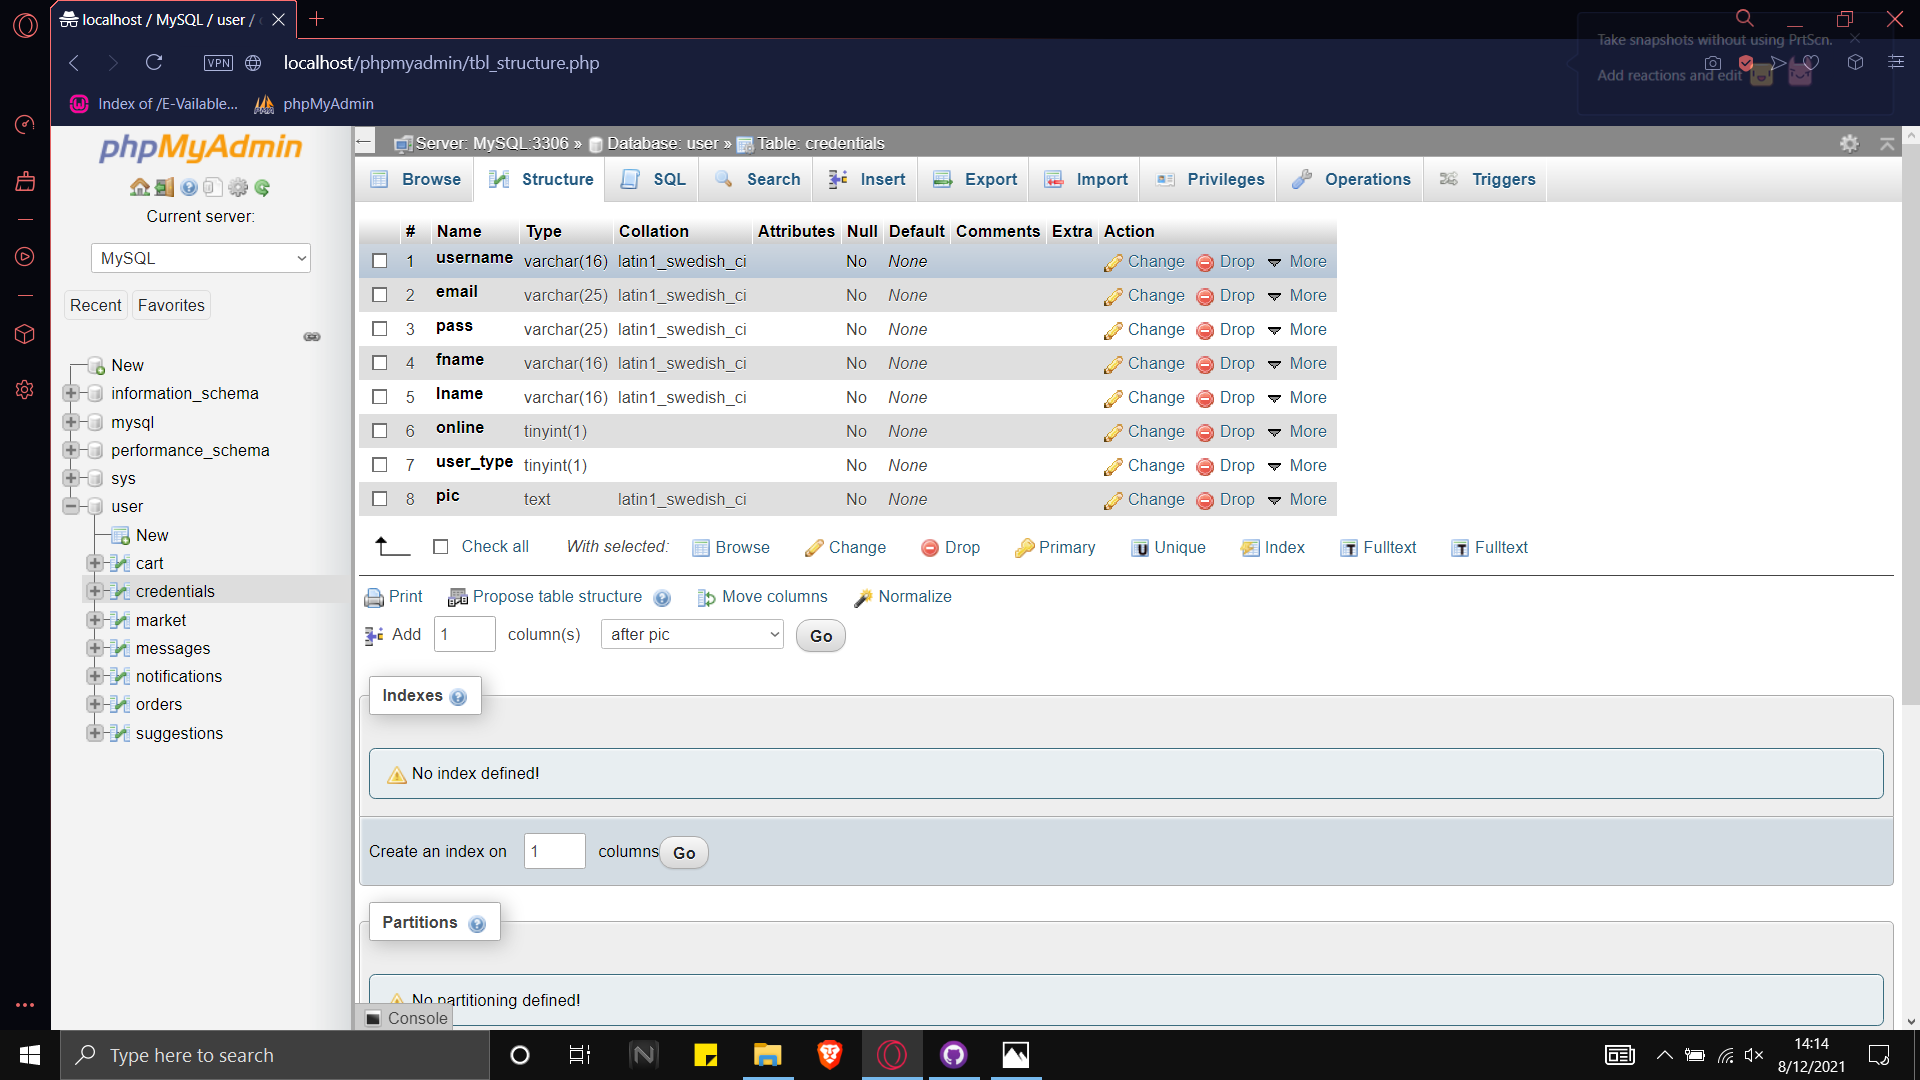
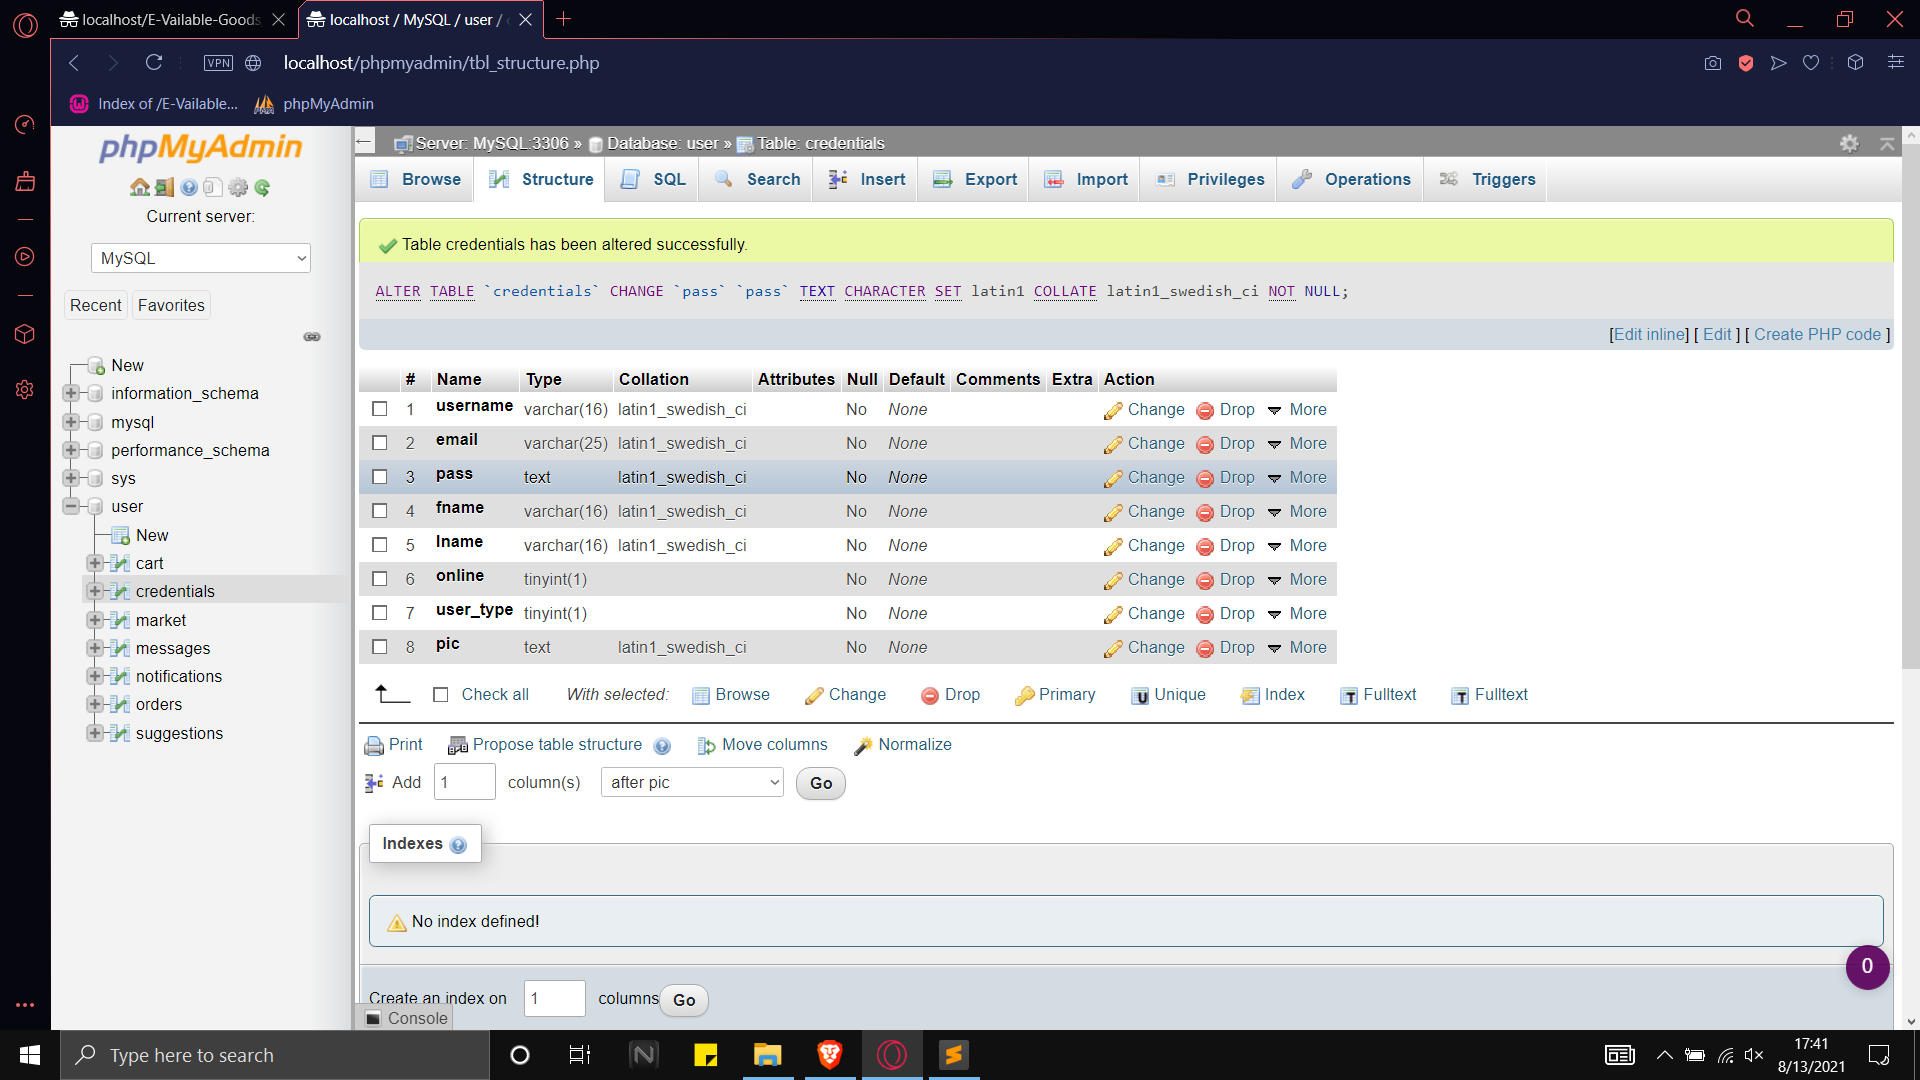
Bug Fix, Security Improvement, Design, jQuery Update

diff --git a/TalkJS.js b/TalkJS.js
@@ -27,7 +27,9 @@ $(document).ready(function(){
 			url: "GetMsgData.php",
 			cache: false,
 			success: function(html){
-				$("#chat").html(html);
+				if($("#chat").html().replace(/\s/g, '') != html.replace(/\s/g, '')){
+					$("#chat").html(html);
+				}
 				var newS = $("#chat")[0].scrollHeight - 20;
 				if(newS > oldS){
 					$("#chat").animate({scrollTop: newS}, "normal");
@@ -43,7 +45,9 @@ $(document).ready(function(){
 			url: "GetChatsData.php",
 			cache: false,
 			success: function(html){
-				$("#contacts").html(html);
+				if($("#contacts").html().replace(/\s/g, '') != html.replace(/\s/g, '')){
+					$("#contacts").html(html);
+				}
 			}
 		});
 		return false;
@@ -65,7 +69,9 @@ $(document).ready(function(){
 			url: "GetOnlineDataInTalk.php",
 			cache: false,
 			success: function(html){
-				$("#active").html(html);
+				if($("#active").html().replace(/\s/g, '') != html.replace(/\s/g, '')){
+					$("#active").html(html);
+				}
 			}
 		});
 	}

diff --git a/TalkCSS.css b/TalkCSS.css
@@ -288,6 +288,7 @@ h4{
 	line-height: 20px;
 	border-radius: 15px;
 	background-color: #ccc;
+	word-wrap: break-word;
 }
 
 .from{	
@@ -301,6 +302,7 @@ h4{
 	font-size: 14px;
 	line-height: 20px;
 	border-radius: 15px;
+	word-wrap: break-word;
 }
 
 #send{

diff --git a/SuggestJS.js b/SuggestJS.js
@@ -7,5 +7,5 @@ $(document).ready(function(){
 			$('#post_sugg')[0].disabled = false;
 		}
 	}
-	setInterval(change_but, 200);
+	setInterval(change_but, 10);
 });

diff --git a/SignUp.php b/SignUp.php
@@ -46,7 +46,11 @@
 		} 
 		else{
 		    $uname = test_input($_POST["uname"]);
-		    if(!preg_match('/^[a-zA-Z0-9]{5,}$/', $uname)){
+		    if(strlen($uname) > 16){
+		    	$unameErr = "Nice try but try again";
+      			$error = True;
+		    }
+		    else if(!preg_match('/^[a-zA-Z0-9]{5,}$/', $uname)){
       			$unameErr = "White space is not allowed";
       			$error = True;
     		}
@@ -57,7 +61,11 @@
 		} 
 		else{ 
 		   	$email = test_input($_POST["email"]);
-		    if(!filter_var($email, FILTER_VALIDATE_EMAIL)){
+		   	if(strlen($email) > 25){
+		    	$emailErr = "Nice try but try again";
+      			$error = True;
+		    }
+		    else if(!filter_var($email, FILTER_VALIDATE_EMAIL)){
       			$emailErr = "Invalid email format";
       			$error = True;
     		}
@@ -67,7 +75,14 @@
 		    $error = True;
 		} 
 		else{
-		    $pword = test_input($_POST["pword"]);
+			$pword = test_input($_POST["pword"]);
+			if(strlen($pword) > 25){
+		    	$pwordErr = "Nice try but try again";
+      			$error = True;
+		    }
+		    else{
+		    	$pword = md5(test_input($_POST["pword"]));
+		    }
 		}
 		if(empty($_POST["fname"])){
 			$fnameErr = "First Name is required";
@@ -75,6 +90,10 @@
 		} 
 		else{
 		    $fname = test_input($_POST["fname"]);
+		    if(strlen($fname) > 16){
+		    	$fnameErr = "Nice try but try again";
+      			$error = True;
+		    }
 		}
 		if(empty($_POST["lname"])){
 		    $lnameErr = "Last Name is required";
@@ -82,6 +101,10 @@
 		} 
 		else{
 		    $lname = test_input($_POST["lname"]);
+		    if(strlen($lname) > 16){
+		    	$lnameErr = "Nice try but try again";
+      			$error = True;
+		    }
 		}
 		if(!isset($_POST["user_type"])){
 			$adminErr = $custErr = "Please select one";
@@ -166,11 +189,11 @@
 
 	<div class = "login"> 
 		<form method = "post" action = "<?php echo htmlspecialchars($_SERVER["PHP_SELF"]);?>">
-			Username: <br> <input type = "text" name = "uname" class = "field" value = "<?php echo $uname?>" id="uname"> <span class = "error" id="unameE">* <?php echo $unameErr;?></span> <br>
-			E-Mail: <br>  <input type = "text" name = "email" class = "field" value = "<?php echo $email?>"id="email"> <span class = "error">* <?php echo $emailErr;?></span> <br>
-			Password: <br> <input type = "password" name = "pword" class = "field" id="pword"> <span class = "error">* <?php echo $pwordErr;?></span> <br>
-			First Name: <br> <input type = "text" name = "fname" class = "field" value = "<?php echo $fname?>" id="fname"> <span class = "error">* <?php echo $fnameErr;?></span> <br>
-			Last Name: <br> <input type = "text" name = "lname" class = "field" value = "<?php echo $lname?>" id="lname"> <span class = "error">* <?php echo $lnameErr;?></span> <br>
+			Username: <br> <input type = "text" placeholder="Must not exceed 16 characters" name = "uname" class = "field" value = "<?php echo $uname?>" id="uname" maxlength="16"> <span class = "error" id="unameE">* <?php echo $unameErr;?></span> <br>
+			E-Mail: <br>  <input type = "text" placeholder="Must not exceed 25 characters" name = "email" class = "field" value = "<?php echo $email?>"id="email" maxlength="25"> <span class = "error">* <?php echo $emailErr;?></span> <br>
+			Password: <br> <input type = "password" placeholder="Must not exceed 25 characters" name = "pword" class = "field" id="pword" maxlength="25"> <span class = "error">* <?php echo $pwordErr;?></span> <br>
+			First Name: <br> <input type = "text" placeholder="Must not exceed 16 characters" name = "fname" class = "field" value = "<?php echo $fname?>" id="fname" maxlength="16"> <span class = "error">* <?php echo $fnameErr;?></span> <br>
+			Last Name: <br> <input type = "text" placeholder="Must not exceed 16 characters" name = "lname" class = "field" value = "<?php echo $lname?>" id="lname" maxlength="16"> <span class = "error">* <?php echo $lnameErr;?></span> <br>
 			<input type = "radio" id = "admin" name = "user_type"  value = "admin" <?php if($admin != ""){echo "checked";}?>> Market Admin <span class = "error"> * <?php echo $adminErr; ?> </span> <br>
 			<input type = "radio" id = "cust" name = "user_type" value = "cust" <?php if($cust != ""){echo "checked";}?>> Customer <span class = "error"> * <?php echo $custErr; ?> </span> 
 			<br>

diff --git a/Profile.php b/Profile.php
@@ -45,21 +45,39 @@
 		    $error = True;
 		  } 
 		  else{
-		    $opw = test_input($_POST["opw"]);
+		  	if(strlen($_POST["opw"]) > 25){
+		  		$opwErr = "Nice try but try again";
+		  		$error = True;
+		  	}
+		  	else{
+		    	$opw = test_input($_POST["opw"]);
+		    }
 		  }
 		  if(empty($_POST["npw"])){
 		    $npwErr = "This field is required";
 		    $error = True;
 		  } 
 		  else{
-		    $npw = test_input($_POST["npw"]);
+		  	if(strlen($_POST["npw"]) > 25){
+		  		$npwErr = "Nice try but try again";
+		  		$error = True;
+		  	}
+		  	else{
+		    	$npw = test_input($_POST["npw"]);
+		    }
 		  }
 		  if(empty($_POST["rnpw"])) {
 		    $rnpwErr = "This field is required";
 		    $error = True;
 		  } 
 		  else{
-		    $rnpw = test_input($_POST["rnpw"]);
+		  	if(strlen($_POST["rnpw"]) > 25){
+		  		$rnpwErr = "Nice try but try again";
+		  		$error = True;
+		  	}
+		  	else{
+		    	$rnpw = test_input($_POST["rnpw"]);
+		    }
 		  }
 
 		  //Update
@@ -72,7 +90,7 @@
 			  	while($res = $query->fetch_assoc()){
 			  		$fin = $res["pass"];
 			  	}
-			  	if($fin == $opw){
+			  	if($fin == md5($opw)){
 				  	if($npw != $rnpw){
 				  		$rnpwErr = $npwErr = "New Passwords do not match";
 				  	}
@@ -81,7 +99,7 @@
 					$opwErr = "Incorrect Old Password!";
 				}
 			}
-			else{
+			else if(($opwErr != "Nice try but try again" && $npwErr != "Nice try but try again" && $rnpwErr != "Nice try but try again") && $error){
 				$rnpwErr = $npwErr = $opwErr = "Invalid Details";
 			}
 		}
@@ -183,11 +201,11 @@
 	<div class = "changep">
 		<h3 class = "passer">Change your password</h3>
 		<form method = "post" action = "<?php echo htmlspecialchars($_SERVER["PHP_SELF"]);?>">
-			<input type = "text" name = "opw" placeholder = "Old Password" id="opassw"> <span class = "error">* <?php echo $opwErr;?></span> 
+			<input type = "text" name = "opw" placeholder = "Old Password" id="opassw" maxlength="25"> <span class = "error">* <?php echo $opwErr;?></span> 
 			<br>
-			<input type = "text" name = "npw" placeholder = "New Password" id="npassw"> <span class = "error">* <?php echo $npwErr;?></span> 
+			<input type = "text" name = "npw" placeholder = "New Password" id="npassw" maxlength="25"> <span class = "error">* <?php echo $npwErr;?></span> 
 			<br> 
-			<input type = "text" name = "rnpw" placeholder = "Re-enter New Password" id="rnpassw"> <span class = "error">* <?php echo $rnpwErr;?></span>
+			<input type = "text" name = "rnpw" placeholder = "Re-enter New Password" id="rnpassw" maxlength="25"> <span class = "error">* <?php echo $rnpwErr;?></span>
 			<br>
 			<input type = "submit" value = "Change Password" class = "button" name = "submit" id="changepass">
 		</form>
@@ -221,6 +239,7 @@
 			$fin = $res["pass"];
 		}
 		if($npw == $rnpw && $fin == $opw && $input && !$error){
+			$npw = md5($npw);
 			$update = "UPDATE `credentials` SET pass = '$npw' WHERE `username` = '$_SESSION[usern]'";
 			if($conn->query($update) == True){
 				?>
@@ -253,6 +272,18 @@
 					$update = "UPDATE `credentials` SET `pic` = '$upfile' WHERE `username` = '$_SESSION[usern]'";
 					$conn -> query($update);
 					$_SESSION["prof_pic"] = $upfile;
+					?>
+					<script type="text/javascript"> 
+						swal({
+							title: "Profile Picture Updated", 
+							text: "You have successfully changed your profile picture", 
+							icon: "success"
+						})
+						.then(function(){
+							location.href = "Profile.php";
+						});
+					</script>
+					<?php
 				}
 			}
 			else{

diff --git a/Login.php b/Login.php
@@ -53,7 +53,7 @@
 		    $error = True;
 		} 
 		else{
-		    $pword = test_input($_POST["pword"]);
+		    $pword = md5(test_input($_POST["pword"]));
 		}
 		if($input){
 			if(!$error){
@@ -134,8 +134,8 @@
 	</div>
 	<div class = "login">
 		<form method = "post" action = "<?php echo htmlspecialchars($_SERVER["PHP_SELF"]);?>">
-			E-Mail: <br> <input type = "text" name = "email" class = "field" value = "<?php echo $email;?>" id="email"> <span class = "error">* <?php echo $emailErr;?></span> <br>
-			Password: <br> <input type = "password" name = "pword" class = "field" id="pword"> <span class = "error">* <?php echo $pwordErr;?></span> <br>
+			E-Mail: <br> <input type = "text" name = "email" class = "field" value = "<?php echo $email;?>" id="email" maxlength="25"> <span class = "error">* <?php echo $emailErr;?></span> <br>
+			Password: <br> <input type = "password" name = "pword" class = "field" id="pword" maxlength="25"> <span class = "error">* <?php echo $pwordErr;?></span> <br>
 			<br>
 			<input type = "submit" value = "Log In" class = "button" id="submit">
 		</form>

diff --git a/Cart.php b/Cart.php
@@ -167,14 +167,25 @@
 					}
 					$arr_max[$i] = $maxi;
 					?>
-					<div class = "itemsa">
+					<div class = "itemsa" id="<?php echo $idn."wow"; ?>">
 						<label class = "checkbox">
 							<div class = "eman">
 								<label for = "<?php echo $idn; ?>"><?php echo $row["productname"]; ?></label>
 							</div>
-							<input type = "checkbox" id = "formID" name = "<?php echo $idn; ?>">
+							<input type = "checkbox" id = "<?php echo $idn; ?>" name = "<?php echo $idn; ?>">
 							<span class = "checkmark"></span>
 						</label>
+						<script type="text/javascript">
+							var x = "#"+'<?php echo $idn; ?>';
+							$(x).click(function(){
+								if(document.getElementById('<?php echo $idn; ?>').checked){
+									document.getElementById('<?php echo $idn."wow"; ?>').style.outline = "2px solid #4A7C59";
+								}
+								else{
+									document.getElementById('<?php echo $idn."wow"; ?>').style.outline = "none";
+								}
+							})
+						</script>
 						<div class = "orderq">
 							Quantity: 
 							<p id = "<?php echo $uni?>">

diff --git a/Talk.php b/Talk.php
@@ -87,8 +87,8 @@
 
 	<div id = "send">
 		<form action = "">
-			<input type = "text" name = "msg" placeholder = "Type your message here." id = "msg" />
-			<button type = "button" id = "sendm">Send</button>
+			<input type = "text" name = "msg" placeholder = "Type your message here. Sadly, we do not YET support emojis; but, will in our future updates." id = "msg"/>
+			<button type = "button" id = "sendm"><i class="fas fa-location-arrow"></i></button>
 		</form>
 	</div>
 
